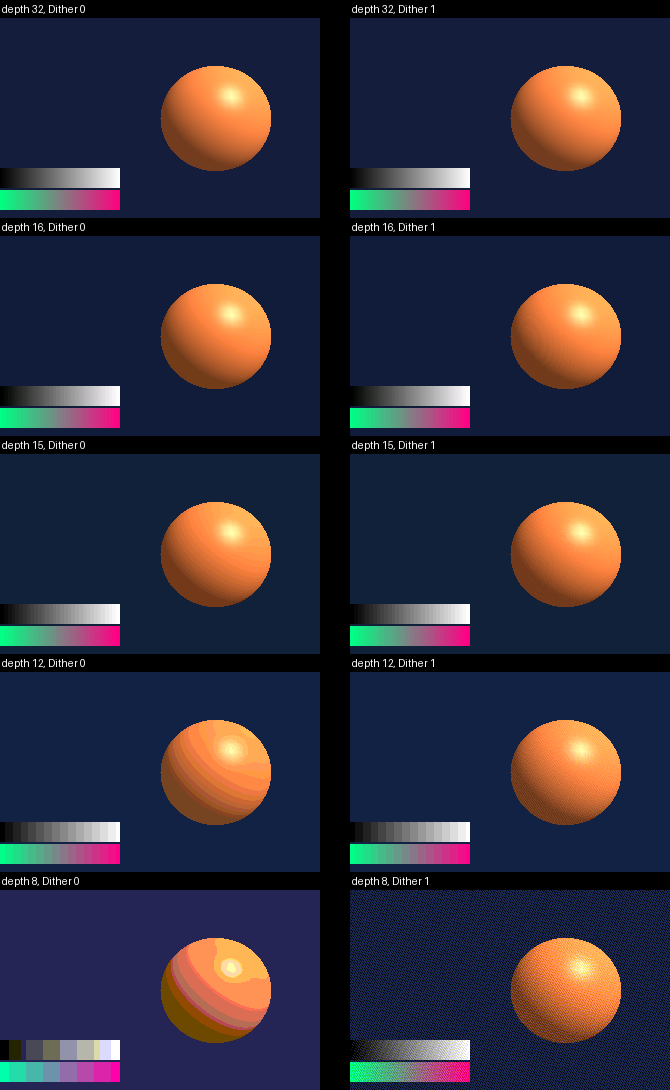
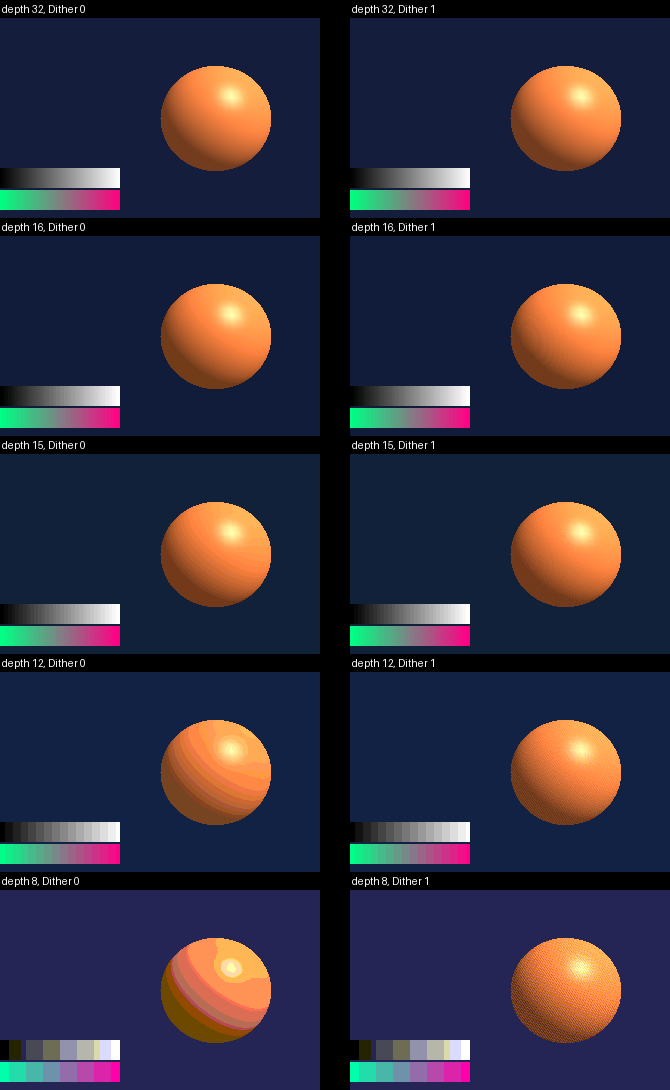
Describe palette-space lighting, fog and blending; refresh depth 8 pictures
Claude-Session: https://claude.ai/code/session_01Ur73BQVvVatqbnHJc8UE38

Changed region(s): [[0.5075, 0.811, 1.0, 1.0]]

diff --git a/tools/wiki/text/Blitz3D/World/Dither.md b/tools/wiki/text/Blitz3D/World/Dither.md
@@ -3,5 +3,5 @@
 <!-- AUTOGENERATED COPYRIGHT HEADER END -->
 Switches dithering on or off, which hides banding in gradients. With Dither on, lighting, textures and fog of 3D drawing also get noise of less than half a step of the 8 bit buffer before they are rounded to it (and before blending), so a smooth gradient in an RGBA8 buffer is a fine pattern instead of bands. It uses the same moving noise, costs a few operations per pixel, and colors that 8 bits can show exactly do not change. Blending is fixed-function with Dither 1, so what it makes is rounded again and a blend of a color over a gradient can still show bands. Besides that, the picture in the window gets temporal Interleaved Gradient Noise of up to half a step of the 8 bit output added when it is shown, so that the bands that rounding makes (for instance after SetGamma and UpdateGamma changed a gradient to values in between two steps) become a fine pattern that the eye averages out. The pattern moves from frame to frame (it repeats after 64 frames), which makes it average out over time as well; [DitherTemporal](DitherTemporal) keeps it in place instead. The noise is made on the GPU while the picture is shown, costs one pass over the screen, and does not change the buffers: ReadPixel and SaveBuffer see what was drawn (for the picture of the window; what 3D drawing made is dithered when it is drawn, so ReadPixel sees that noise). A color that the picture can show exactly stays as it is.
 
-Dither 2 is a BlitzLLVM extension that goes further: things that are drawn with a blend mode (alpha, multiply, add, or the texture blend modes that blend with what is there) are blended by their fragment shader instead of the fixed-function blender, which reads what the buffer holds at the pixel, mixes it as the blend mode says in floating point, adds the noise and only then rounds to 8 bits. That is how the result of a blend gets dithered, for instance a translucent fog sprite over a dark gradient. It takes the Vulkan extensions VK_KHR_dynamic_rendering_local_read and VK_EXT_rasterization_order_attachment_access, or else VK_EXT_fragment_shader_interlock (used with RGBA8 buffers, where the blending draws run in a pass of their own), which many current GPUs and drivers offer; [HWDither](HWDither) says whether the one in use does. With the depths 16, 15 and 12 of [Graphics3D](Graphics3D) the noise of 3D drawing is one step of the 5, 6 or 4 bits that the buffer has, and with the depth 8 the shown picture gets noise of one step of the palette ([GraphicsPalette](GraphicsPalette)) before the nearest color is picked. Dither 2 only blends in the shader when the target has 8 bits per color (alpha does not count), which is where the noise is needed: into the 10 and 16 bit buffers of [Graphics3D](Graphics3D) depths 30 and 64 the fixed-function blender is used, as with Dither 1. Where the GPU can not do it, Dither 2 does exactly what Dither 1 does. Blending in the shader costs a little more per blended pixel than the fixed-function blender, and the drawing of things that are not blended, or with Dither 0 or 1, does not use it.
+Dither 2 is a BlitzLLVM extension that goes further: things that are drawn with a blend mode (alpha, multiply, add, or the texture blend modes that blend with what is there) are blended by their fragment shader instead of the fixed-function blender, which reads what the buffer holds at the pixel, mixes it as the blend mode says in floating point, adds the noise and only then rounds to 8 bits. That is how the result of a blend gets dithered, for instance a translucent fog sprite over a dark gradient. It takes the Vulkan extensions VK_KHR_dynamic_rendering_local_read and VK_EXT_rasterization_order_attachment_access, or else VK_EXT_fragment_shader_interlock (used with RGBA8 buffers, where the blending draws run in a pass of their own), which many current GPUs and drivers offer; [HWDither](HWDither) says whether the one in use does. With the depths 16, 15 and 12 of [Graphics3D](Graphics3D) the noise of 3D drawing is one step of the 5, 6 or 4 bits that the buffer has, and with the depth 8 the shader adds noise of one step of the palette ([GraphicsPalette](GraphicsPalette)) after lighting and fog, before the nearest color is picked (Dither 2 blends first, so the blend is in palette colors). Dither 2 only blends in the shader when the target has 8 bits per color (alpha does not count), which is where the noise is needed: into the 10 and 16 bit buffers of [Graphics3D](Graphics3D) depths 30 and 64 the fixed-function blender is used, as with Dither 1. Where the GPU can not do it, Dither 2 does exactly what Dither 1 does. Blending in the shader costs a little more per blended pixel than the fixed-function blender, and the drawing of things that are not blended, or with Dither 0 or 1, does not use it.
 @param enable  0 (False) not to dither, 1 (True) to dither, and 2 to dither what blending makes as well, see HWDither. It is off by default, and unlike in the original it does not matter which color depth was asked for.

diff --git a/tools/wiki/pages/Color-Depth.md b/tools/wiki/pages/Color-Depth.md
@@ -9,7 +9,7 @@ The depth argument of `Graphics` and `Graphics3D` decides what the front and bac
 
 | Depth | Format of the buffers |
 |---|---|
-| 8 | A palette of 256 colors, see below. The buffer is drawn in R8G8B8A8, and what is shown and read is the nearest color of the palette. |
+| 8 | A palette of 256 colors, see below. The buffer is R8G8B8A8 and holds colors of the palette. |
 | 12 | R4G4B4A4: 4 bits for each, with alpha. |
 | 15 | A1R5G5B5: 5 bits for red, green and blue, and 1 for alpha. |
 | 16 | R5G6B5: 5 bits for red and blue and 6 for green. The alpha channel is not used. |
@@ -22,11 +22,11 @@ The depth argument of `Graphics` and `Graphics3D` decides what the front and bac
 
 ## Palette (depth 8)
 
-A `Graphics` or `Graphics3D` with a depth of 8 has 256 colors. The graphics card has no storage with an index per pixel that it could blend and light into, so the buffers stay R8G8B8A8 while they are drawn to (lighting, fog and blending work as they do with 32), and the colors are made into the nearest ones of the palette where the picture leaves the buffer: when it is shown in the window, and when `ReadPixel`, `LockBuffer`, `SaveBuffer`, `GrabImage` and the like read the front or back buffer, so a program sees the colors that the window shows. Nearest is the smallest distance in red, green and blue; the window does it with a lookup texture with the nearest color of every color of 6 bits per channel.
+A `Graphics` or `Graphics3D` with a depth of 8 has 256 colors. The graphics card has no storage with an index per pixel that it could blend and light into, so the buffers stay R8G8B8A8 but hold only colors of the palette: the shaders of 3D drawing light, fog and dither in full color and then make the result into the nearest color of the palette (the smallest distance in red, green and blue, from a lookup texture with the nearest color of every color of 6 bits per channel), and with `Dither 2` blended draws read the palette colors that are there and blend them the same way. Draws that blend by the fixed-function blender (no Dither 2) and 2D drawing are made into palette colors when the picture is shown, and `ReadPixel`, `LockBuffer`, `SaveBuffer`, `GrabImage` and the like give palette colors for the front and back buffer.
 
 `GraphicsPalette imagefile$` sets the palette from a picture of 16 by 16 pixels, where the pixel at x,y is the color with the number y * 16 + x (the numbers only matter to the program that made the picture). Without it, or with an empty name, the palette has every color with 3 bits of red, 3 of green and 2 of blue, from 0,0,0 to 255,255,255, in the order of the bits RRRGGGBB. It can be called before or after `Graphics`.
 
-With `Dither` on, the noise of the shown picture is one step of the palette for each channel (the average gap between the values that the palette has for it: 36.4 for red and green and 85 for blue in the default palette), added before the nearest color is picked, so that a gradient is a fine pattern of palette colors that the eye averages out instead of bands. Without it every color is simply the nearest one.
+With `Dither` on, the noise is one step of the palette for each channel (the average gap between the values that the palette has for it: 36.4 for red and green and 85 for blue in the default palette), added before the nearest color is picked, so that a gradient is a fine pattern of palette colors that the eye averages out instead of bands. Without it every color is simply the nearest one.
 
 The pictures below are the same scene with the depths 32, 16, 15, 12 and 8, without and with `Dither`.
 

diff --git a/tools/wiki/text/BlitzBasic/Display/GraphicsPalette.md b/tools/wiki/text/BlitzBasic/Display/GraphicsPalette.md
@@ -1,5 +1,5 @@
 <!-- AUTOGENERATED COPYRIGHT HEADER START -->
 <!-- Copyright (C) 2026 Claude <noreply@anthropic.com> -->
 <!-- AUTOGENERATED COPYRIGHT HEADER END -->
-Sets the 256 colors that a [Graphics](Graphics) or [Graphics3D](Graphics3D) window with a depth of 8 shows. The picture is a lookup table of 16 by 16 pixels, and the pixel at x,y is the color with the number y * 16 + x. Drawing happens in full color; the picture of the window, and what ReadPixel and the other commands read from the front and back buffer, have the color of the palette that is nearest (the smallest distance in red, green and blue). With [Dither](Dither) on, the noise that is added before the nearest color is picked is one step of the palette for each channel, so that gradients become a pattern instead of bands. The default palette has all colors of 3 bits of red, 3 of green and 2 of blue, from 0,0,0 to 255,255,255, in the order of the bits RRRGGGBB. GraphicsPalette can be called before or after Graphics and changes what is shown with the next picture. This is a BlitzLLVM extension: the original has no such command, and its palette modes are not supported. See [Color depth](Color-Depth).
+Sets the 256 colors that a [Graphics](Graphics) or [Graphics3D](Graphics3D) window with a depth of 8 shows. The picture is a lookup table of 16 by 16 pixels, and the pixel at x,y is the color with the number y * 16 + x. 3D drawing is lit, fogged and then made into the color of the palette that is nearest (the smallest distance in red, green and blue) by the fragment shader, so lighting and fog happen in full color and what is stored are palette colors; with [Dither](Dither) 2, blended things are blended with what the buffer holds, in palette colors. 2D drawing, and blends that Dither 2 does not do, are made into palette colors when the picture is shown, and what ReadPixel and the other commands read from the front and back buffer has palette colors as well. With [Dither](Dither) on, the noise that is added before the nearest color is picked is one step of the palette for each channel, so that gradients become a pattern instead of bands. The default palette has all colors of 3 bits of red, 3 of green and 2 of blue, from 0,0,0 to 255,255,255, in the order of the bits RRRGGGBB. GraphicsPalette can be called before or after Graphics and changes what is shown with the next picture. This is a BlitzLLVM extension: the original has no such command, and its palette modes are not supported. See [Color depth](Color-Depth).
 @param imagefile  A picture file of exactly 16 by 16 pixels (any format that LoadImage reads), or an empty string for the default palette. Any other size stops the program with an error message.
